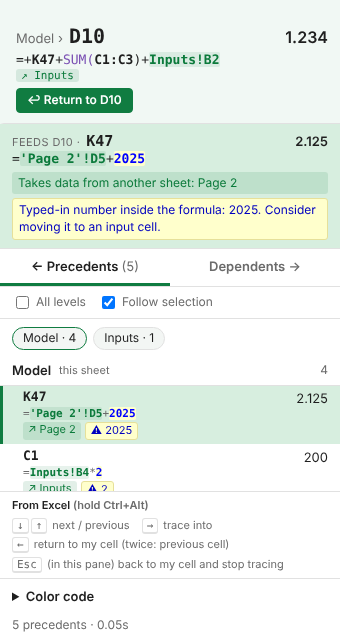
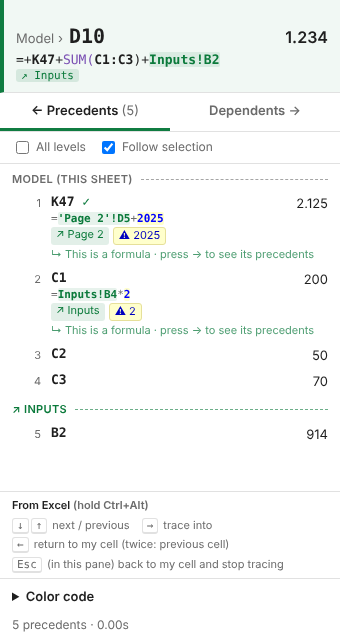
Trace mode: precedents in formula order, sheet-change dividers, dig-deeper lines, pane keeps arrow keys
Claude-Session: https://claude.ai/code/session_01Bo32iADHD9j8bCTQBa8Xof

diff --git a/addin/app.js b/addin/app.js
@@ -222,6 +222,8 @@
     );
   }
 
+  // One list, in formula order (precedents) or sheet order (dependents).
+  // A divider marks every change of sheet; formula rows offer "dig deeper".
   function render() {
     const res = state.result;
     const root = $("results");
@@ -233,101 +235,83 @@
     const q = $("filter").hidden ? "" : $("filter").value.trim().toLowerCase();
     if (!res.groups.length) {
       const noun = state.dir === "precedents" ? "precedents" : "dependents";
-      const hint = state.dir === "precedents" ? "It is a hard-coded value or has no cell references." : "No formula uses this cell.";
+      const hint = state.dir === "precedents" ? "It is a typed-in value or has no cell references." : "No formula uses this cell.";
       root.innerHTML = `<div class="empty"><p><b>No ${noun}.</b></p><p>${hint}</p></div>`;
       return;
     }
     const originSheet = C.splitAddress(res.origin).sheet;
-    // One chip per sheet: an overview of where the references live, and a jump link.
-    const chips = document.createElement("div");
-    chips.className = "chips";
-    root.appendChild(chips);
-    for (const g of res.groups) {
-      const areas = g.areas.filter((a) => matches(a, g.sheet, q));
-      if (!areas.length) continue;
-      const h = document.createElement("div");
-      h.className = "sheet-h";
-      const chip = document.createElement("button");
-      chip.className = "chip" + (g.sheet === originSheet ? " own" : "");
-      chip.textContent = `${g.sheet} · ${C.formatCount(areas.length)}`;
-      chip.title = `Jump to the ${g.sheet} references`;
-      chip.addEventListener("click", () => {
-        const idx = state.items.findIndex((x) => x.sheet === g.sheet);
-        if (idx >= 0) activate(idx, true);
-      });
-      chips.appendChild(chip);
-      const name = document.createElement("span");
-      name.textContent = g.sheet;
-      h.appendChild(name);
-      if (g.sheet === originSheet) {
-        const tag = document.createElement("span");
-        tag.className = "tag";
-        tag.textContent = "this sheet";
-        h.appendChild(tag);
-      }
-      const n = document.createElement("span");
-      n.className = "n";
-      n.textContent = C.formatCount(areas.length);
-      h.appendChild(n);
-      root.appendChild(h);
-      renderItems(root, h, g.sheet, areas, 0);
+    let list = [];
+    for (const g of res.groups) for (const a of g.areas) if (matches(a, g.sheet, q)) list.push(Object.assign({ sheet: g.sheet }, a));
+    if (state.dir === "precedents" && res.originFormula) list = C.orderByFormula(list, res.originFormula, originSheet);
+    if (!list.length) {
+      root.innerHTML = `<div class="empty"><p>Nothing matches the filter.</p></div>`;
+      return;
     }
-    if (!state.items.length) root.innerHTML = `<div class="empty"><p>Nothing matches the filter.</p></div>`;
+    const ol = document.createElement("div");
+    ol.className = "list";
+    root.appendChild(ol);
+    renderItems(ol, list, 0, originSheet);
   }
 
-  // Appends rows after `anchor`; keeps state.items in on-screen order.
-  function renderItems(root, anchor, sheet, areas, start) {
-    const end = Math.min(areas.length, start + PAGE);
-    let after = anchor;
-    const newItems = [];
+  function renderItems(ol, list, start, originSheet) {
+    const end = Math.min(list.length, start + PAGE);
+    let prevSheet = start > 0 ? list[start - 1].sheet : null;
     for (let i = start; i < end; i++) {
-      const it = { area: areas[i], sheet, el: itemEl(areas[i], sheet) };
-      after.after(it.el);
-      after = it.el;
-      newItems.push(it);
+      const area = list[i];
+      if (area.sheet !== prevSheet) {
+        const d = document.createElement("div");
+        d.className = "divider" + (area.sheet === originSheet ? " own" : "");
+        d.textContent = area.sheet === originSheet ? `${area.sheet} (this sheet)` : `↗ ${area.sheet}`;
+        ol.appendChild(d);
+        prevSheet = area.sheet;
+      }
+      const it = { area, sheet: area.sheet, el: itemEl(area, area.sheet, i + 1) };
+      const idx = state.items.length;
+      state.items.push(it);
+      it.el.addEventListener("click", () => activate(idx, true));
+      it.el.addEventListener("dblclick", () => drill(idx));
+      ol.appendChild(it.el);
     }
-    // Insert into the flat list right after the anchor's last item.
-    const prev = state.items.findIndex((x) => x.el === anchor);
-    const pos = prev >= 0 ? prev + 1 : itemsBefore(anchor);
-    state.items.splice(pos, 0, ...newItems);
-    newItems.forEach((it) => it.el.addEventListener("click", () => activate(state.items.indexOf(it), true)));
-    newItems.forEach((it) => it.el.addEventListener("dblclick", () => drill(state.items.indexOf(it))));
-    if (end < areas.length) {
+    if (end < list.length) {
       const more = document.createElement("button");
       more.className = "more";
-      more.textContent = `Show ${C.formatCount(Math.min(PAGE, areas.length - end))} more (${C.formatCount(areas.length - end)} left)`;
+      more.textContent = `Show ${C.formatCount(Math.min(PAGE, list.length - end))} more (${C.formatCount(list.length - end)} left)`;
       more.addEventListener("click", () => {
-        const last = after;
         more.remove();
-        renderItems(root, last, sheet, areas, end);
+        renderItems(ol, list, end, originSheet);
       });
-      after.after(more);
+      ol.appendChild(more);
     }
   }
 
-  function itemsBefore(node) {
-    let count = 0;
-    for (const it of state.items) {
-      if (it.el.compareDocumentPosition(node) & Node.DOCUMENT_POSITION_FOLLOWING) count++;
-    }
-    return count;
-  }
-
-  function itemEl(area, sheet) {
+  function itemEl(area, sheet, n) {
     const row = document.createElement("div");
     row.className = "item";
-    row.title = area.address + (area.formula ? "\n" + area.formula : "") + "\nDouble-click or → to trace into it";
+    row.title = area.address + (area.formula ? "\n" + area.formula : "");
+    const num = document.createElement("span");
+    num.className = "num";
+    num.textContent = n;
     const addr = document.createElement("span");
     addr.className = "addr";
     addr.textContent = area.local;
     const val = document.createElement("span");
     val.className = "val";
     val.textContent = area.cells > 1 ? `${C.formatCount(area.cells)} cells` : area.value !== undefined ? area.value : "";
-    row.append(addr, val);
+    row.append(num, addr, val);
     if (area.formula) {
       row.appendChild(formulaEl(area.formula, sheet));
       const b = badgesEl(area.formula, sheet, false);
       if (b) row.appendChild(b);
+    }
+    // A formula (or a range) has precedents of its own: offer to dig in.
+    if (area.formula || area.cells > 1) {
+      const dig = document.createElement("div");
+      dig.className = "dig";
+      dig.textContent = `↳ ${area.formula ? "This is a formula" : "This is a range"} · press → to see its ${state.dir}`;
+      dig.addEventListener("click", (e) => { e.stopPropagation(); drill(state.items.findIndex((x) => x.el === row)); });
+      row.appendChild(dig);
+    } else {
+      row.classList.add("leaf");
     }
     return row;
   }
@@ -410,6 +394,13 @@
     } catch (err) {
       status("Could not go there: " + errText(err), true);
     }
+    if (!state.paused) focusPane(); // keep the arrow keys working in the list
+  }
+
+  // Trace mode: the list holds the keyboard so plain ↑ ↓ → ← Esc work.
+  function focusPane() {
+    try { window.focus(); } catch (e) { /* ignore */ }
+    $("results").focus({ preventScroll: true });
   }
 
   // Makes row i the new traced cell (→ / Enter / double-click).
@@ -504,7 +495,7 @@
       await showPane();
       $("allLevels").checked = all;
       await runTrace({ dir });
-      $("results").focus();
+      focusPane();
     });
     Office.actions.associate("tracePrecedents", traceCmd("precedents", false));
     Office.actions.associate("traceAllPrecedents", traceCmd("precedents", true));

diff --git a/addin/lib/core.js b/addin/lib/core.js
@@ -289,6 +289,53 @@
     return out;
   }
 
+
+  // "B$5:$C9" -> { r0, c0, r1, c1 }; whole columns/rows span the sheet. null if not a range.
+  function a1ToRect(local) {
+    const s = String(local).replace(/\$/g, "").toUpperCase();
+    let m = /^([A-Z]{1,3})(\d+)(?::([A-Z]{1,3})(\d+))?$/.exec(s);
+    if (m) {
+      const r = { r0: +m[2] - 1, c0: lettersToCol(m[1]), r1: +(m[4] || m[2]) - 1, c1: lettersToCol(m[3] || m[1]) };
+      return { r0: Math.min(r.r0, r.r1), c0: Math.min(r.c0, r.c1), r1: Math.max(r.r0, r.r1), c1: Math.max(r.c0, r.c1) };
+    }
+    m = /^([A-Z]{1,3}):([A-Z]{1,3})$/.exec(s);
+    if (m) return { r0: 0, c0: lettersToCol(m[1]), r1: 1048575, c1: lettersToCol(m[2]) };
+    m = /^(\d+):(\d+)$/.exec(s);
+    if (m) return { r0: +m[1] - 1, c0: 0, r1: +m[2] - 1, c1: 16383 };
+    return null;
+  }
+
+  function intersects(a, b) {
+    return a && b && a.r0 <= b.r1 && b.r0 <= a.r1 && a.c0 <= b.c1 && b.c0 <= a.c1;
+  }
+
+  // Sorts precedents into the order they are written in the formula, so ↓
+  // walks the formula left to right. items: [{ sheet, local }] (any extra
+  // fields are kept). Anything the formula doesn't name directly (e.g. via a
+  // defined name) goes last, in its original order.
+  function orderByFormula(items, formula, ownSheet) {
+    const refs = [];
+    for (const t of tokenizeFormula(formula, ownSheet)) {
+      if (t.kind !== "ref" && t.kind !== "xref") continue;
+      const p = splitAddress(t.text);
+      const sheet = p.sheet && !p.sheet.includes(":") ? p.sheet : p.sheet ? null : ownSheet;
+      refs.push({ sheet, rect: a1ToRect(p.local) });
+    }
+    const pos = (it) => {
+      const rect = a1ToRect(it.local);
+      for (let i = 0; i < refs.length; i++) {
+        const r = refs[i];
+        if (r.sheet !== null && String(r.sheet).toLowerCase() !== String(it.sheet).toLowerCase()) continue;
+        if (r.sheet === null || intersects(r.rect, rect)) return i;
+      }
+      return Infinity;
+    };
+    return items
+      .map((it, i) => ({ it, i, p: pos(it) }))
+      .sort((a, b) => a.p - b.p || a.i - b.i)
+      .map((x) => x.it);
+  }
+
   // Plain-language notes about a formula, for the "what is this cell" line.
   //   { sheets: ["Page 2"], external: true/false, hardcoded: ["2025"] }
   // 0 and 1 aren't reported as hard-codes (=A1*1, IF(x,0,…) are normal).
@@ -334,6 +381,8 @@
     planChunks,
     tokenizeFormula,
     describeFormula,
+    a1ToRect,
+    orderByFormula,
     formatCount,
     isHexColor,
   };

diff --git a/addin/taskpane.css b/addin/taskpane.css
@@ -134,7 +134,7 @@ main { flex: 1; overflow: auto; border-top: 1px solid var(--line); outline: none
 .sheet-h .n { margin-left: auto; font-weight: 400; color: var(--muted); font-size: 12px; }
 .item {
   display: grid;
-  grid-template-columns: minmax(60px, auto) 1fr;
+  grid-template-columns: 18px minmax(60px, auto) 1fr;
   column-gap: 10px;
   padding: 4px 12px 4px 20px;
   cursor: pointer;
@@ -154,9 +154,6 @@ main { flex: 1; overflow: auto; border-top: 1px solid var(--line); outline: none
   text-overflow: ellipsis;
 }
 .more { margin: 6px 20px; }
-.chips { display: flex; flex-wrap: wrap; gap: 6px; padding: 8px 12px 6px; }
-.chip { border-radius: 12px; padding: 2px 10px; font-size: 12px; background: var(--hover); }
-.chip.own { border-color: var(--accent); }
 .keys-title { width: 100%; font-weight: 600; color: var(--fg); }
 .keys { display: flex; flex-wrap: wrap; gap: 4px 12px; padding: 6px 12px; font-size: 11px; color: var(--muted); border-top: 1px solid var(--line); }
 
@@ -197,3 +194,24 @@ main { flex: 1; overflow: auto; border-top: 1px solid var(--line); outline: none
 .now-label { font-size: 11px; text-transform: uppercase; letter-spacing: 0.04em; color: var(--muted); }
 .now-addr { font: 600 15px Consolas, "Cascadia Mono", monospace; }
 .now-value { margin-left: auto; font-weight: 600; }
+
+/* ---- formula-order list ---- */
+.list { padding-bottom: 8px; }
+.item .num { color: var(--muted); font-size: 11px; text-align: right; padding-top: 2px; }
+.item .fx, .item .badges, .item .dig { grid-column: 2 / -1; }
+.divider {
+  display: flex;
+  align-items: center;
+  gap: 8px;
+  padding: 8px 12px 3px;
+  font-size: 11px;
+  font-weight: 600;
+  color: #0b7a3b;
+  text-transform: uppercase;
+  letter-spacing: 0.03em;
+}
+.divider::after { content: ""; flex: 1; border-top: 1px dashed currentColor; opacity: 0.6; }
+.divider.own { color: var(--muted); }
+.dig { font-size: 11px; color: var(--accent); margin-top: 2px; cursor: pointer; }
+.item:not(.active) .dig { opacity: 0.75; }
+.item.active .dig { font-weight: 600; opacity: 1; }

diff --git a/tests/core.test.js b/tests/core.test.js
@@ -132,3 +132,17 @@ test("describeFormula explains a step in plain terms", () => {
   assert.deepEqual(C.describeFormula("=IF(A1>0,A1*1,0)", "Model"), { sheets: [], external: false, hardcoded: [] });
   assert.equal(C.describeFormula("=[Budget.xlsx]P!A1", "Model").external, true);
 });
+
+test("orderByFormula follows the formula left to right", () => {
+  const items = [
+    { sheet: "Model", local: "C1:C3" },
+    { sheet: "Inputs", local: "B2" },
+    { sheet: "Model", local: "K47" },
+    { sheet: "Model", local: "Z99" }, // not named in the formula
+    { sheet: "Page 2", local: "D5" },
+  ];
+  const out = C.orderByFormula(items, "=+K47*'Page 2'!$D$5+SUM(C1:C3)+Inputs!B2", "Model").map((x) => x.sheet + "!" + x.local);
+  assert.deepEqual(out, ["Model!K47", "Page 2!D5", "Model!C1:C3", "Inputs!B2", "Model!Z99"]);
+  assert.deepEqual(C.a1ToRect("$B$2:A1"), { r0: 0, c0: 0, r1: 1, c1: 1 });
+  assert.deepEqual(C.a1ToRect("C:C"), { r0: 0, c0: 2, r1: 1048575, c1: 2 });
+});

diff --git a/addin/taskpane.html b/addin/taskpane.html
@@ -54,11 +54,11 @@
     </div>
   </main>
   <footer class="keys" id="keys">
-    <div class="keys-title">From Excel <span class="muted">(hold Ctrl+Alt)</span></div>
-    <span><kbd>↓</kbd><kbd>↑</kbd> next / previous</span>
-    <span><kbd>→</kbd> trace into</span>
-    <span><kbd>←</kbd> return to my cell (twice: previous cell)</span>
-    <span><kbd>Esc</kbd> <span class="muted">(in this pane)</span> back to my cell and stop tracing</span>
+    <span><kbd>↑</kbd><kbd>↓</kbd> move</span>
+    <span><kbd>→</kbd> dig deeper</span>
+    <span><kbd>←</kbd> back</span>
+    <span><kbd>Esc</kbd> exit to my cell</span>
+    <span class="muted">If the arrows move Excel instead, click this list once (or use Ctrl+Alt + arrows).</span>
   </footer>
 
   <!-- Color coding (tucked away) -->

diff --git a/README.md b/README.md
@@ -64,6 +64,7 @@ On Mac the shortcuts use `⌘ ⌥ ⇧` instead of `Ctrl Alt Shift`.
   | `Ctrl+Alt+←` | **Return to the cell you're analysing.** Press again to go back to the cell you analysed before |
 
   Inside the pane, the plain arrow keys do the same. **`Esc`** takes you back to your cell, closes the pane and stops tracing, so Excel behaves normally again (pressing `Ctrl+Alt+←` on your cell with nothing to go back to does the same). On Mac use `⌘ ⌥` + arrows.
+- **Formula order.** Precedents are listed in the order they appear in the formula (`=+K47*'Page 2'!D5+…` lists K47 first, then Page 2!D5…). A dashed divider marks each change of sheet, and every precedent that is itself a formula says *"↳ This is a formula · press → to see its precedents"*.
 - **Every step is explained.** A green *"Feeds D10 · K47"* card shows the cell you're on, with its formula colored:
   - **green**: references to another sheet (plus *"Takes data from another sheet: Page 2"*)
   - **blue on yellow**: numbers typed into a formula, like `2025` (*"Consider moving it to an input cell"*)
